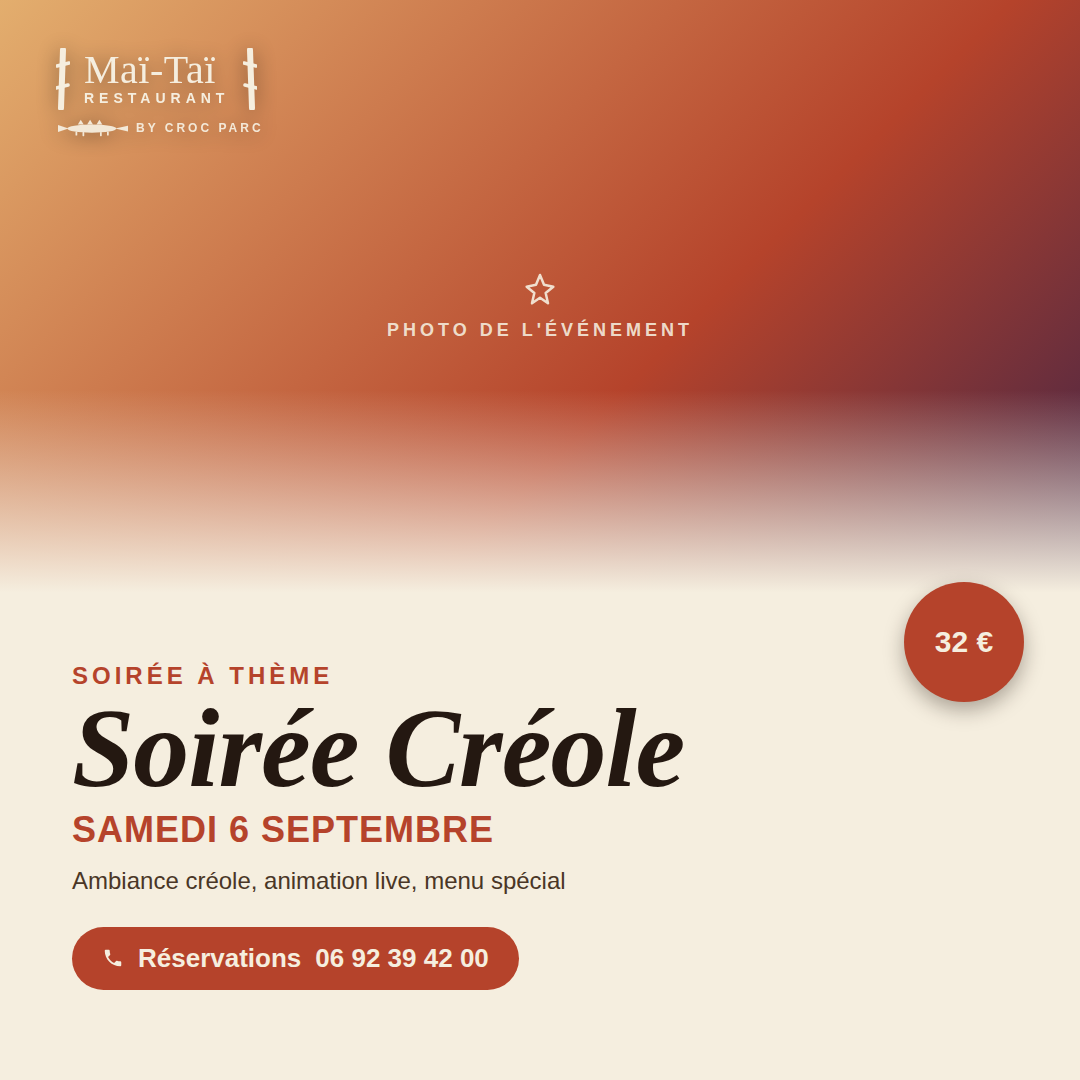
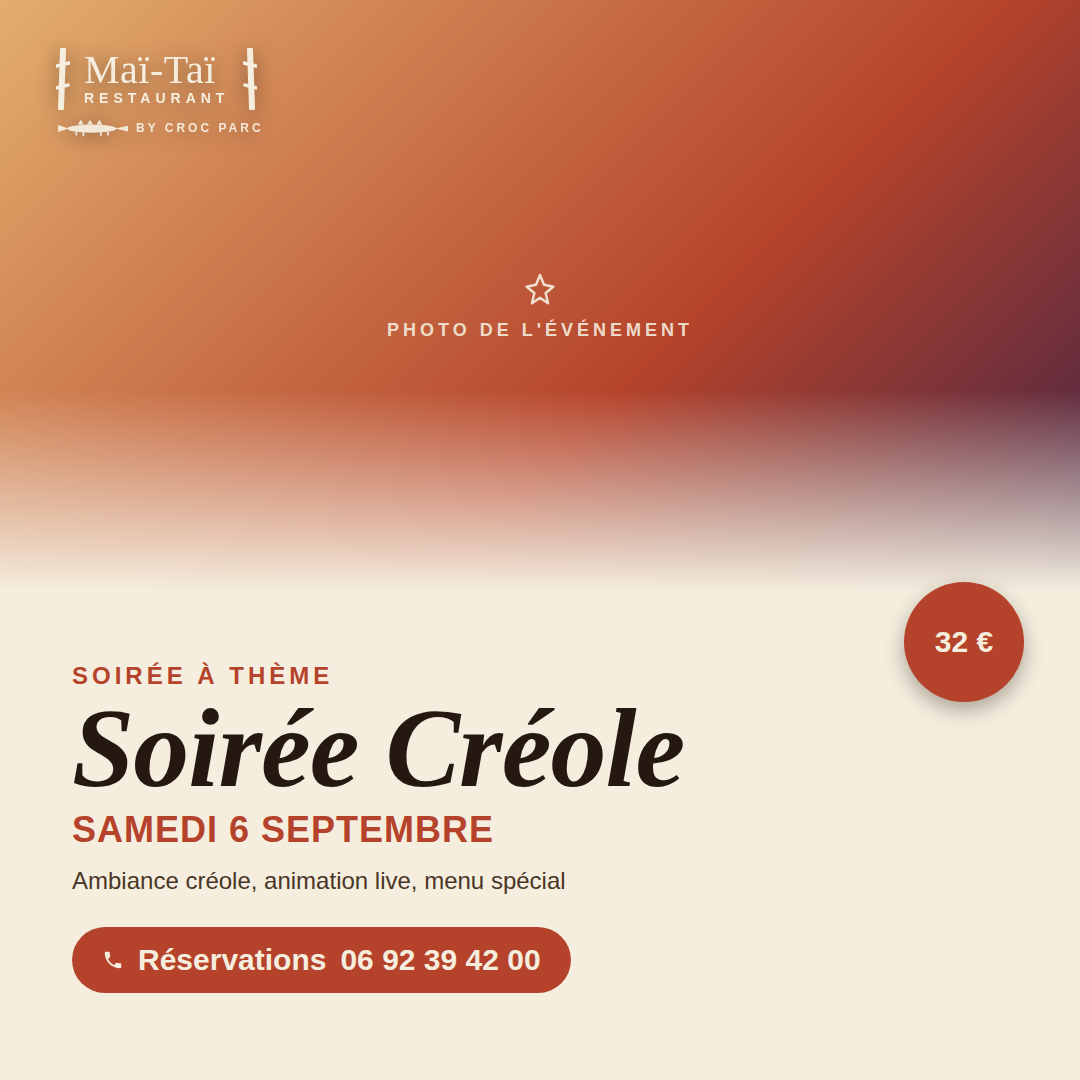
Redesign de l'annonce : titre repensé, texte agrandi, ton plus joyeux
Suite au retour du gérant : nouveau titre "Nou artourne !" (clin d'œil
créole local, remplace "On rouvre"), texte des détails et du bouton
d'appel agrandi, badge autocollant pour la date, halo chaleureux et
ombre portée sur l'accroche, photo plus vive et moins désaturée pour un
rendu plus immersif. Recherche de tendances design restauration menée
en amont pour cadrer ces choix.

Changed region(s): [[0.1222, 0.8556, 0.55, 0.9167]]

diff --git a/templates/annonce/story.html b/templates/annonce/story.html
@@ -16,7 +16,7 @@
      ============================================================ */
   :root{
     --mt-kicker:"Après les vacances scolaires";
-    --mt-titre:"On rouvre";
+    --mt-titre:"Nou artourne !";
     --mt-date:"Mardi 18 août";
     --mt-detail-1:"Ouvert du mardi au vendredi — fermé le lundi";
     --mt-detail-2:"Samedi & dimanche sur réservation — entrée principale CrocParc";
@@ -29,17 +29,17 @@
 
   html,body{width:1080px;height:1920px;display:flex;flex-direction:column;}
 
-  .photo-band{position:relative;width:1080px;height:900px;overflow:hidden;flex:none;}
+  .photo-band{position:relative;width:1080px;height:840px;overflow:hidden;flex:none;}
   .photo-band .photo{
     position:absolute;inset:0;
     background-image:var(--mt-photo);
     background-size:cover;
     background-position:50% 18%;
-    filter:grayscale(0.35) contrast(1.08) brightness(0.95);
+    filter:saturate(1.2) contrast(1.05) brightness(1.03);
   }
   .photo-band .tint{
     position:absolute;inset:0;
-    background:linear-gradient(180deg, rgba(36,25,17,0.4) 0%, rgba(36,25,17,0.05) 30%, rgba(36,51,29,0.55) 100%);
+    background:linear-gradient(180deg, rgba(200,155,60,0.10) 0%, rgba(200,155,60,0.02) 30%, rgba(181,67,43,0.28) 100%);
     mix-blend-mode:multiply;
   }
   .photo-band .fade-bottom{
@@ -48,32 +48,30 @@
   }
   .mt-logo{position:absolute;top:44px;left:56px;z-index:5;filter:drop-shadow(0 2px 10px rgba(0,0,0,0.45));}
 
-  .panel{position:relative;padding:0 var(--space-xl);color:var(--color-brown-dark);}
+  .panel{position:relative;padding:0 var(--space-xl);color:var(--color-brown-dark);overflow:hidden;}
   .kicker{
     font-family:var(--font-label);font-weight:700;font-size:var(--text-kicker);
     letter-spacing:4px;text-transform:uppercase;color:var(--color-terracotta);
-    margin-top:8px;
+    margin-top:14px;
   }
   .kicker::before{content:var(--mt-kicker);}
   h1{
     font-family:var(--font-display);font-weight:900;font-style:italic;
-    font-size:var(--text-headline);line-height:0.86;letter-spacing:-2px;
-    margin-top:10px;
+    font-size:var(--text-headline);line-height:0.94;letter-spacing:-1.5px;
+    margin-top:8px;
+    max-width:960px;
   }
   h1::before{content:var(--mt-titre);}
-  .date{
-    font-family:var(--font-label);font-weight:700;font-size:var(--text-date);
-    letter-spacing:1px;text-transform:uppercase;color:var(--color-terracotta);
-    margin-top:10px;
-  }
-  .date::before{content:var(--mt-date);}
+  .scribble{width:230px;height:17px;margin-top:0;margin-left:4px;}
+  .mt-sticker{margin-top:16px;}
+  .mt-sticker::before{content:var(--mt-date);}
 
-  .details{margin-top:var(--space-md);display:flex;flex-direction:column;gap:14px;}
+  .details{margin-top:24px;display:flex;flex-direction:column;gap:10px;}
   .detail-1::before{content:var(--mt-detail-1);}
   .detail-2::before{content:var(--mt-detail-2);}
   .detail-3::before{content:var(--mt-detail-3);}
 
-  .mt-cta{margin-top:var(--space-md);}
+  .mt-cta{margin-top:20px;}
   .mt-cta-label::before{content:var(--mt-cta-label);}
   .mt-cta-num::before{content:var(--mt-cta-num);}
 </style>
@@ -129,9 +127,14 @@
   </div>
 
   <div class="panel">
+    <div class="mt-grain"></div>
     <div class="kicker"></div>
-    <h1></h1>
-    <div class="date"></div>
+    <div class="mt-headline">
+      <div class="halo"></div>
+      <h1 class="mt-pop-shadow"></h1>
+      <svg class="scribble" viewBox="0 0 230 17" fill="none"><path d="M3 10c22-9 44-9 60-3s38 8 60 1 49-7 65 1 27 3 37-2" stroke="currentColor" stroke-width="4.5" stroke-linecap="round"/></svg>
+    </div>
+    <div class="mt-sticker"></div>
 
     <div class="details">
       <div class="mt-row">

diff --git a/templates/annonce/carre.html b/templates/annonce/carre.html
@@ -16,7 +16,7 @@
      ============================================================ */
   :root{
     --mt-kicker:"Après les vacances scolaires";
-    --mt-titre:"On rouvre";
+    --mt-titre:"Nou artourne !";
     --mt-date:"Mardi 18 août";
     --mt-detail-1:"Ouvert du mardi au vendredi — fermé le lundi";
     --mt-detail-2:"Samedi & dimanche sur réservation — entrée principale CrocParc";
@@ -29,17 +29,17 @@
 
   html,body{width:1080px;height:1080px;}
 
-  .photo-band{position:relative;width:1080px;height:610px;overflow:hidden;}
+  .photo-band{position:relative;width:1080px;height:566px;overflow:hidden;}
   .photo-band .photo{
     position:absolute;inset:0;
     background-image:var(--mt-photo);
     background-size:cover;
     background-position:50% 22%;
-    filter:grayscale(0.35) contrast(1.08) brightness(0.95);
+    filter:saturate(1.2) contrast(1.05) brightness(1.03);
   }
   .photo-band .tint{
     position:absolute;inset:0;
-    background:linear-gradient(180deg, rgba(36,25,17,0.35) 0%, rgba(36,25,17,0.05) 35%, rgba(36,51,29,0.55) 100%);
+    background:linear-gradient(180deg, rgba(200,155,60,0.10) 0%, rgba(200,155,60,0.02) 30%, rgba(181,67,43,0.28) 100%);
     mix-blend-mode:multiply;
   }
   .photo-band .fade-bottom{
@@ -48,32 +48,30 @@
   }
   .mt-logo{position:absolute;top:48px;left:56px;z-index:5;filter:drop-shadow(0 2px 10px rgba(0,0,0,0.45));}
 
-  .panel{position:relative;padding:0 var(--space-xl);color:var(--color-brown-dark);}
+  .panel{position:relative;padding:0 var(--space-xl);color:var(--color-brown-dark);overflow:hidden;}
   .kicker{
     font-family:var(--font-label);font-weight:700;font-size:var(--text-kicker);
     letter-spacing:4px;text-transform:uppercase;color:var(--color-terracotta);
-    margin-top:26px;
+    margin-top:18px;
   }
   .kicker::before{content:var(--mt-kicker);}
   h1{
     font-family:var(--font-display);font-weight:900;font-style:italic;
-    font-size:var(--text-headline);line-height:0.86;letter-spacing:-2px;
+    font-size:var(--text-headline);line-height:0.94;letter-spacing:-1.5px;
     margin-top:6px;
+    max-width:920px;
   }
   h1::before{content:var(--mt-titre);}
-  .date{
-    font-family:var(--font-label);font-weight:700;font-size:var(--text-date);
-    letter-spacing:1px;text-transform:uppercase;color:var(--color-terracotta);
-    margin-top:8px;
-  }
-  .date::before{content:var(--mt-date);}
+  .scribble{width:210px;height:16px;margin-top:0;margin-left:4px;}
+  .mt-sticker{margin-top:14px;}
+  .mt-sticker::before{content:var(--mt-date);}
 
-  .details{margin-top:26px;display:flex;flex-direction:column;gap:9px;}
+  .details{margin-top:20px;display:flex;flex-direction:column;gap:8px;}
   .detail-1::before{content:var(--mt-detail-1);}
   .detail-2::before{content:var(--mt-detail-2);}
   .detail-3::before{content:var(--mt-detail-3);}
 
-  .mt-cta{margin-top:24px;}
+  .mt-cta{margin-top:18px;}
   .mt-cta-label::before{content:var(--mt-cta-label);}
   .mt-cta-num::before{content:var(--mt-cta-num);}
 </style>
@@ -121,9 +119,14 @@
   </div>
 
   <div class="panel">
+    <div class="mt-grain"></div>
     <div class="kicker"></div>
-    <h1></h1>
-    <div class="date"></div>
+    <div class="mt-headline">
+      <div class="halo"></div>
+      <h1 class="mt-pop-shadow"></h1>
+      <svg class="scribble" viewBox="0 0 210 16" fill="none"><path d="M3 10c20-9 40-9 55-3s35 8 55 1 45-7 60 1 25 3 34-2" stroke="currentColor" stroke-width="4.5" stroke-linecap="round"/></svg>
+    </div>
+    <div class="mt-sticker"></div>
 
     <div class="details">
       <div class="mt-row">

diff --git a/shared/design-tokens.css b/shared/design-tokens.css
@@ -23,10 +23,10 @@
 
   /* ---- Échelle de tailles — format carré (1080x1080) ---- */
   --text-kicker:24px;
-  --text-headline:132px;
-  --text-date:46px;
-  --text-detail:22px;
-  --text-cta:26px;
+  --text-headline:108px;
+  --text-date:34px;
+  --text-detail:27px;
+  --text-cta:30px;
   --text-logo:40px;
   --text-logo-sub:14px;
 
@@ -56,11 +56,11 @@
    template pose data-format="story" sur <body> pour hériter de ces valeurs. */
 body[data-format="story"]{
   --text-kicker:26px;
-  --text-headline:150px;
-  --text-date:52px;
-  --text-detail:25px;
-  --text-cta:28px;
-  --icon-size:22px;
+  --text-headline:122px;
+  --text-date:38px;
+  --text-detail:30px;
+  --text-cta:32px;
+  --icon-size:24px;
   --space-md:34px;
   --space-lg:56px;
 }
@@ -119,6 +119,55 @@ body{
   font-size:12px;
   letter-spacing:3px;
   text-transform:uppercase;
+}
+
+/* ---- Accroche : halo chaleureux + ombre portée "tiki" ----
+   S'applique autour de tout titre (h1) pour lui donner du pop et de
+   l'immersion, quelle que soit la longueur du texte — le halo est
+   volontairement généreux plutôt que calé au pixel près sur le texte. */
+.mt-headline{position:relative;}
+.mt-headline .halo{
+  position:absolute;
+  left:-48px;right:-10%;top:-18%;bottom:-18%;
+  background:radial-gradient(ellipse at 30% 50%, rgba(181,67,43,0.30) 0%, rgba(181,67,43,0.14) 45%, rgba(181,67,43,0) 72%);
+  filter:blur(10px);
+  z-index:-1;
+  pointer-events:none;
+}
+.mt-pop-shadow{
+  text-shadow:4px 4px 0 rgba(200,155,60,0.35), 8px 8px 0 rgba(181,67,43,0.16);
+}
+.mt-scribble{
+  display:block;
+  margin-top:2px;
+  color:var(--color-gold);
+}
+
+/* ---- Badge "autocollant" — met en avant une info clé (ex. la date) ---- */
+.mt-sticker{
+  display:inline-flex;
+  align-items:center;
+  background:var(--color-terracotta);
+  color:var(--color-cream);
+  border:4px solid var(--color-cream);
+  border-radius:var(--radius-pill);
+  padding:10px 30px;
+  transform:rotate(-3deg);
+  box-shadow:0 8px 18px rgba(36,25,17,0.3);
+  font-family:var(--font-label);
+  font-weight:700;
+  font-size:var(--text-date);
+  letter-spacing:0.5px;
+  text-transform:uppercase;
+}
+
+/* ---- Grain léger — évite l'aplat trop lisse, rendu "imprimé artisanal" ---- */
+.mt-grain{
+  position:absolute;inset:0;
+  background-image:radial-gradient(rgba(36,25,17,0.5) 1px, transparent 1px);
+  background-size:5px 5px;
+  opacity:0.035;
+  pointer-events:none;
 }
 
 /* ---- Ligne d'information avec pictogramme ---- */
